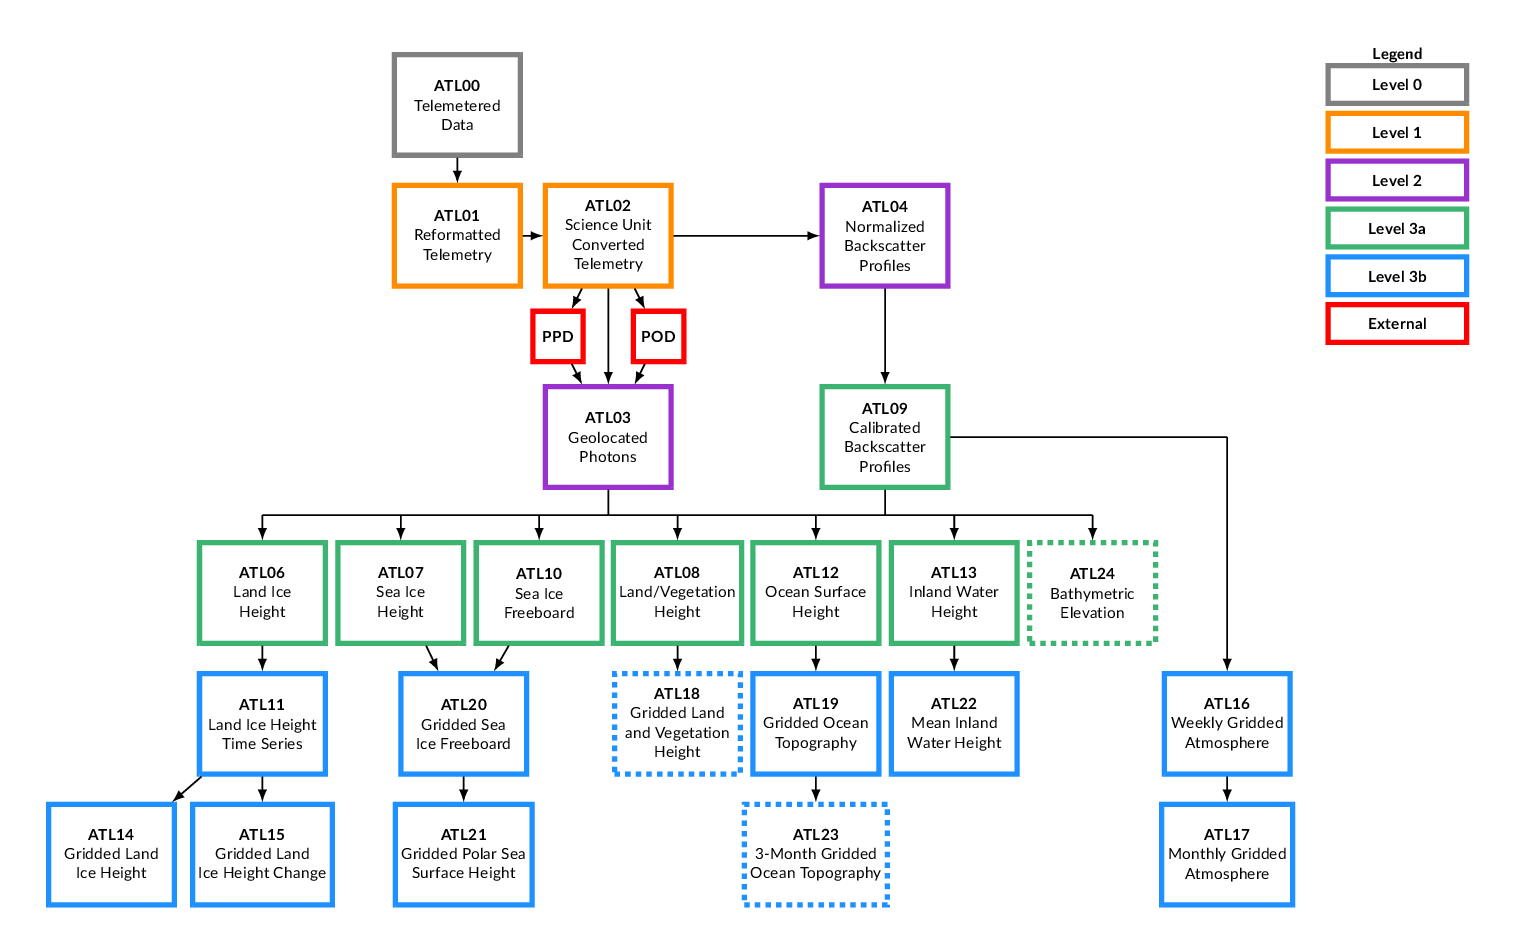
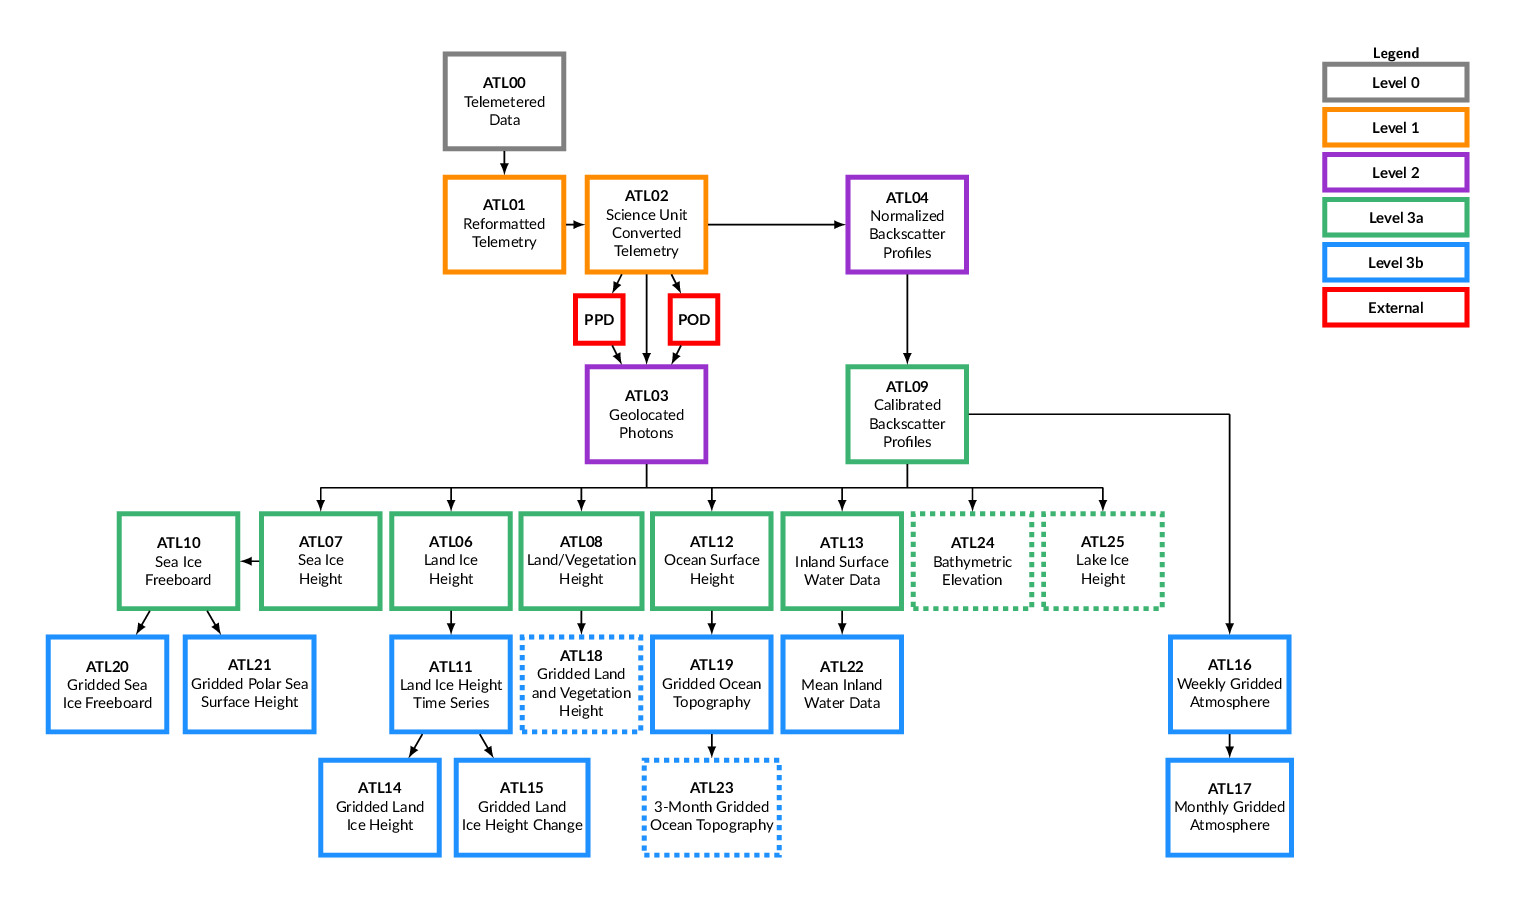
docs: update product chart to add ATL25
fix: default import as class
refactor: import higher level for submodules
fix: numpy 2.0 deprecation updates

diff --git a/doc/source/_assets/ASAS_product_chart.tex b/doc/source/_assets/ASAS_product_chart.tex
@@ -63,42 +63,44 @@
 		\node (B)[shape=coordinate, left=1.375cm of A] {};
 		\node (C)[shape=coordinate, left=2.75cm of B] {};
 		\node (D)[shape=coordinate, left=2.75cm of C] {};
-		\node (E)[shape=coordinate, right=1.375cm of A] {};
-		\node (F)[shape=coordinate, right=2.75cm of E] {};
+		\node (E)[shape=coordinate, left=3.00cm of D] {};
+		\node (F)[shape=coordinate, right=1.375cm of A] {};
 		\node (G)[shape=coordinate, right=2.75cm of F] {};
 		\node (H)[shape=coordinate, right=2.75cm of G] {};
+		\node (I)[shape=coordinate, right=2.75cm of H] {};
 		% Level 3a products
-		\node (atl06)[l3a, below=0.5cm of D]{\textbf{ATL06}\\Land Ice\\Height};
-		\node (atl07)[l3a, below=0.5cm of C]{\textbf{ATL07}\\Sea Ice\\Height};
-		\node (atl10)[l3a, below=0.5cm of B]{\textbf{ATL10}\\Sea Ice\\Freeboard};
-		\node (atl08)[l3a, below=0.5cm of E]{\textbf{ATL08}\\Land/Vegetation\\Height};
+		\node (atl10)[l3a, below=0.5cm of E]{\textbf{ATL10}\\Sea Ice\\Freeboard};
+		\node (atl07)[l3a, below=0.5cm of D]{\textbf{ATL07}\\Sea Ice\\Height};
+		\node (atl06)[l3a, below=0.5cm of C]{\textbf{ATL06}\\Land Ice\\Height};
+		\node (atl08)[l3a, below=0.5cm of B]{\textbf{ATL08}\\Land/Vegetation\\Height};
 		\node (atl12)[l3a, below=0.5cm of F]{\textbf{ATL12}\\Ocean Surface\\Height};
-		\node (atl13)[l3a, below=0.5cm of G]{\textbf{ATL13}\\Inland Water\\Height};
+		\node (atl13)[l3a, below=0.5cm of G]{\textbf{ATL13}\\Inland Surface\\Water Data};
 		\node (atl24)[l3a, dashed, below=0.5cm of H]{\textbf{ATL24}\\Bathymetric\\Elevation};
+		\node (atl25)[l3a, dashed, below=0.5cm of I]{\textbf{ATL25}\\Lake Ice\\Height};
 		\node (atl09)[l3a, right of=atl03, xshift=3.5cm]{\textbf{ATL09}\\Calibrated\\Backscatter\\Profiles};
 		% connection coordinates for single arrow out of ATL09
-		\node (I)[shape=coordinate, below=0.5cm of atl09] {};
-		\node (J)[shape=coordinate, right=5.5cm of atl09] {};
+		\node (J)[shape=coordinate, below=0.5cm of atl09] {};
+		\node (K)[shape=coordinate, right=5.5cm of atl09] {};
 		% Level 3b products
 		\node (atl11)[l3b, below=0.5cm of atl06]{\textbf{ATL11}\\Land Ice Height\\Time Series};
-		\node (atl14)[l3b, below=0.5cm of atl11, xshift=-3cm]{\textbf{ATL14}\\Gridded Land\\ Ice Height};
-		\node (atl15)[l3b, below=0.5cm of atl11, xshift=0cm]{\textbf{ATL15}\\Gridded Land\\ Ice Height Change};
+		\node (atl14)[l3b, below=0.5cm of atl11, xshift=-1.5cm]{\textbf{ATL14}\\Gridded Land\\ Ice Height};
+		\node (atl15)[l3b, below=0.5cm of atl11, xshift=1.5cm]{\textbf{ATL15}\\Gridded Land\\ Ice Height Change};
 		\node (atl20)[l3b, below=0.5cm of atl10, xshift=-1.5cm]{\textbf{ATL20}\\Gridded Sea\\ Ice Freeboard};
-		\node (atl21)[l3b, below=0.5cm of atl20, xshift=0cm]{\textbf{ATL21}\\Gridded Polar Sea\\ Surface Height};
+		\node (atl21)[l3b, below=0.5cm of atl10, xshift=1.5cm]{\textbf{ATL21}\\Gridded Polar Sea\\ Surface Height};
 		\node (atl18)[l3b, dashed, below=0.5cm of atl08, xshift=0cm]{\textbf{ATL18}\\Gridded Land\\ and Vegetation\\Height};
 		\node (atl19)[l3b, below=0.5cm of atl12]{\textbf{ATL19}\\Gridded Ocean\\Topography};
 		\node (atl23)[l3b, dashed, below=0.5cm of atl19]{\textbf{ATL23}\\3-Month Gridded\\Ocean Topography};
-		\node (atl22)[l3b, below=0.5cm of atl13]{\textbf{ATL22}\\Mean Inland\\Water Height};
-		\node (atl16)[l3b, below=4.65cm of J]{\textbf{ATL16}\\Weekly Gridded\\Atmosphere};
+		\node (atl22)[l3b, below=0.5cm of atl13]{\textbf{ATL22}\\Mean Inland\\ Water Data};
+		\node (atl16)[l3b, below=4.65cm of K]{\textbf{ATL16}\\Weekly Gridded\\Atmosphere};
 		\node (atl17)[l3b, below=0.5cm of atl16]{\textbf{ATL17}\\Monthly Gridded\\Atmosphere};
 		% Legend
-		\node (legend)[right=16cm of atl00, yshift=1cm, minimum height=0cm, minimum width=2.75cm]{\textbf{Legend}};
-		\node (level0)[l0, below=-0.1cm of legend, minimum height=0.75cm, minimum width=2.75cm]{\textbf{Level 0}};
-		\node (level1)[l1, below=0.1cm of level0, minimum height=0.75cm, minimum width=2.75cm]{\textbf{Level 1}};
-		\node (level2)[l2, below=0.1cm of level1, minimum height=0.75cm, minimum width=2.75cm]{\textbf{Level 2}};
-		\node (level3a)[l3a, below=0.1cm of level2, minimum height=0.75cm, minimum width=2.75cm]{\textbf{Level 3a}};
-		\node (level3b)[l3b, below=0.1cm of level3a, minimum height=0.75cm, minimum width=2.75cm]{\textbf{Level 3b}};
-		\node (extern)[ext, below=0.1cm of level3b, minimum height=0.75cm, minimum width=2.75cm]{\textbf{External}};
+		\node (legend)[right=16cm of atl00, yshift=1cm, minimum height=0cm, minimum width=3cm]{\textbf{Legend}};
+		\node (level0)[l0, below=-0.1cm of legend, minimum height=0.75cm, minimum width=3cm]{\textbf{Level 0}};
+		\node (level1)[l1, below=0.1cm of level0, minimum height=0.75cm, minimum width=3cm]{\textbf{Level 1}};
+		\node (level2)[l2, below=0.1cm of level1, minimum height=0.75cm, minimum width=3cm]{\textbf{Level 2}};
+		\node (level3a)[l3a, below=0.1cm of level2, minimum height=0.75cm, minimum width=3cm]{\textbf{Level 3a}};
+		\node (level3b)[l3b, below=0.1cm of level3a, minimum height=0.75cm, minimum width=3cm]{\textbf{Level 3b}};
+		\node (extern)[ext, below=0.1cm of level3b, minimum height=0.75cm, minimum width=3cm]{\textbf{External}};
 		% draw arrows between nodes
 		\draw[line width=0.3mm,-Latex](atl00) -- (atl01);
 		\draw[line width=0.3mm,-Latex](atl01) -- (atl02);
@@ -110,24 +112,25 @@
 		\draw[line width=0.3mm,-Latex](atl02) -- (atl04);
 		\draw[line width=0.3mm,-Latex](atl04) -- (atl09);
 		\draw[line width=0.3mm,-](atl03.south) -- (A.north);
-		\draw[line width=0.3mm,-](atl09.south) -- (I.north);
-		\draw[line width=0.3mm,-](atl09.east) -- (J.west);
+		\draw[line width=0.3mm,-](atl09.south) -- (J.north);
+		\draw[line width=0.3mm,-](atl09.east) -- (K.west);
 		\draw[line width=0.3mm,-](A.west) -- (D.east);
-		\draw[line width=0.3mm,-](A.east) -- (H.west);
-		\draw[line width=0.3mm,-Latex](D.south) -- (atl06.north);
-		\draw[line width=0.3mm,-Latex](C.south) -- (atl07.north);
-		\draw[line width=0.3mm,-Latex](B.south) -- (atl10.north);
-		\draw[line width=0.3mm,-Latex](E.south) -- (atl08.north);
+		\draw[line width=0.3mm,-](A.east) -- (I.west);
+%		\draw[line width=0.3mm,-Latex](E.south) -- (atl10.north);
+		\draw[line width=0.3mm,-Latex](D.south) -- (atl07.north);
+		\draw[line width=0.3mm,-Latex](C.south) -- (atl06.north);
+		\draw[line width=0.3mm,-Latex](B.south) -- (atl08.north);
 		\draw[line width=0.3mm,-Latex](F.south) -- (atl12.north);
 		\draw[line width=0.3mm,-Latex](G.south) -- (atl13.north);
 		\draw[line width=0.3mm,-Latex](H.south) -- (atl24.north);
-		\draw[line width=0.3mm,-Latex](J.south) -- (atl16.north);
+		\draw[line width=0.3mm,-Latex](I.south) -- (atl25.north);
+		\draw[line width=0.3mm,-Latex](K.south) -- (atl16.north);
 		\draw[line width=0.3mm,-Latex](atl06) -- (atl11);
 		\draw[line width=0.3mm,-Latex](atl11) -- (atl14);
 		\draw[line width=0.3mm,-Latex](atl11) -- (atl15);
-		\draw[line width=0.3mm,-Latex](atl07) -- (atl20);
+		\draw[line width=0.3mm,-Latex](atl07) -- (atl10);
 		\draw[line width=0.3mm,-Latex](atl10) -- (atl20);
-		\draw[line width=0.3mm,-Latex](atl20) -- (atl21);
+		\draw[line width=0.3mm,-Latex](atl10) -- (atl21);
 		\draw[line width=0.3mm,-Latex](atl08) -- (atl18);
 		\draw[line width=0.3mm,-Latex](atl12) -- (atl19);
 		\draw[line width=0.3mm,-Latex](atl19) -- (atl23);

diff --git a/icesat2_toolkit/spatial.py b/icesat2_toolkit/spatial.py
@@ -46,9 +46,10 @@ import numpy as np
 from icesat2_toolkit.utilities import import_dependency
 
 # attempt imports
-gdal = import_dependency('osgeo.gdal')
-osr = import_dependency('osgeo.osr')
-gdalconst = import_dependency('osgeo.gdalconst')
+osgeo = import_dependency('osgeo')
+osgeo.gdal = import_dependency('osgeo.gdal')
+osgeo.osr = import_dependency('osgeo.osr')
+osgeo.gdalconst = import_dependency('osgeo.gdalconst')
 h5py = import_dependency('h5py')
 netCDF4 = import_dependency('netCDF4')
 
@@ -189,7 +190,7 @@ def from_netCDF4(filename: str, **kwargs):
                 fileID.variables[grid_mapping].getncattr(att_name)
         # get the spatial projection reference information from wkt
         # and overwrite the file-level projection attribute (if existing)
-        srs = osr.SpatialReference()
+        srs = osgeo.osr.SpatialReference()
         srs.ImportFromWkt(dinput['attributes']['crs']['crs_wkt'])
         dinput['attributes']['projection'] = srs.ExportToProj4()
     # convert to masked array if fill values
@@ -294,7 +295,7 @@ def from_HDF5(filename: str | pathlib.Path, **kwargs):
             dinput['attributes']['crs'][att_name] = att_val
         # get the spatial projection reference information from wkt
         # and overwrite the file-level projection attribute (if existing)
-        srs = osr.SpatialReference()
+        srs = osgeo.osr.SpatialReference()
         srs.ImportFromWkt(dinput['attributes']['crs']['crs_wkt'])
         dinput['attributes']['projection'] = srs.ExportToProj4()
     # convert to masked array if fill values
@@ -327,16 +328,16 @@ def from_geotiff(filename: str, **kwargs):
     if (kwargs['compression'] == 'gzip'):
         # read as GDAL gzip virtual geotiff dataset
         mmap_name = f"/vsigzip/{str(case_insensitive_filename(filename))}"
-        ds = gdal.Open(mmap_name)
+        ds = osgeo.gdal.Open(mmap_name)
     elif (kwargs['compression'] == 'bytes'):
         # read as GDAL memory-mapped (diskless) geotiff dataset
         mmap_name = f"/vsimem/{uuid.uuid4().hex}"
-        gdal.FileFromMemBuffer(mmap_name, filename.read())
-        ds = gdal.Open(mmap_name)
+        osgeo.gdal.FileFromMemBuffer(mmap_name, filename.read())
+        ds = osgeo.gdal.Open(mmap_name)
     else:
         # read geotiff dataset
-        ds = gdal.Open(str(case_insensitive_filename(filename)),
-            gdalconst.GA_ReadOnly)
+        ds = osgeo.gdal.Open(str(case_insensitive_filename(filename)),
+            osgeo.gdalconst.GA_ReadOnly)
     # print geotiff file if verbose
     logging.info(str(filename))
     # create python dictionary for output variables and attributes

diff --git a/icesat2_toolkit/fit.py b/icesat2_toolkit/fit.py
@@ -30,7 +30,8 @@ import scipy.optimize
 from icesat2_toolkit.utilities import import_dependency
 
 # attempt imports
-neighbors = import_dependency('sklearn.neighbors')
+sklearn = import_dependency('sklearn')
+sklearn.neighbors = import_dependency('sklearn.neighbors')
 
 # PURPOSE: compress complete list of valid indices into a set of ranges
 def compress_list(i,n):
@@ -526,7 +527,7 @@ def reduce_histogram_fit(x, y, z, ind, dt, FIT_TYPE='gaussian',
     # using kernel density functions from scikit-learn neighbors
     # gaussian kernels will reflect more accurate distributions of the data
     # with less sensitivity to sampling width than histograms (tophat kernels)
-    kde = neighbors.KernelDensity(bandwidth=dz, kernel='gaussian')
+    kde = sklearn.neighbors.KernelDensity(bandwidth=dz, kernel='gaussian')
     kde.fit(z[:,None])
     # kde score_samples outputs are normalized log density functions
     hist = np.exp(kde.score_samples(z_full[:,None]) + np.log(n_max*dz))
@@ -654,7 +655,7 @@ def reduce_histogram_fit(x, y, z, ind, dt, FIT_TYPE='gaussian',
             # using kernel density functions from scikit-learn neighbors
             # gaussian kernels will reflect more accurate distributions of the data
             # with less sensitivity to sampling width than histograms (tophat kernels)
-            kde = neighbors.KernelDensity(bandwidth=dz,kernel='gaussian')
+            kde = sklearn.neighbors.KernelDensity(bandwidth=dz, kernel='gaussian')
             kde.fit(z_filt[:,None])
             # kde score_samples outputs are normalized log density functions
             hist = np.exp(kde.score_samples(z_full[:,None]) + np.log(nz*dz))
@@ -989,7 +990,7 @@ def calc_first_photon_bias(temporal_residuals,n_pulses,n_pixels,dead_time,dt,
     # using kernel density functions from scikit-learn neighbors
     # gaussian kernels will reflect more accurate distributions of the data
     # with less sensitivity to sampling width than histograms (tophat kernels)
-    kde = neighbors.KernelDensity(bandwidth=dt,kernel='gaussian')
+    kde = sklearn.neighbors.KernelDensity(bandwidth=dt, kernel='gaussian')
     kde.fit(temporal_residuals[:,None])
     # kde score_samples outputs are normalized log density functions
     hist = np.exp(kde.score_samples(t_full[:,None]) + np.log(cnt*dt))

diff --git a/scripts/MPI_ICESat2_ATL03_histogram.py b/scripts/MPI_ICESat2_ATL03_histogram.py
@@ -132,7 +132,8 @@ import timescale.time
 # attempt imports
 h5py = is2tk.utilities.import_dependency('h5py')
 MPI = is2tk.utilities.import_dependency('mpi4py.MPI')
-cluster = is2tk.utilities.import_dependency('sklearn.cluster')
+sklearn = is2tk.utilities.import_dependency('sklearn')
+sklearn.cluster = is2tk.utilities.import_dependency('sklearn.cluster')
 yapc = is2tk.utilities.import_dependency('yapc')
 
 # PURPOSE: keep track of MPI threads
@@ -655,7 +656,7 @@ def main():
                 # and that the spread of photons is greater than 20m
                 if (ice_sig_low_count > 10) & (along_X_spread > 20):
                     # use density-based spatial clustering in segment
-                    db = cluster.DBSCAN(eps=0.5).fit(
+                    db = sklearn.cluster.DBSCAN(eps=0.5).fit(
                         np.c_[distance_along_X, segment_heights],
                         sample_weight=photon_snr)
                     labels = db.labels_
@@ -864,7 +865,7 @@ def main():
                 # and that the spread of photons is greater than 40m
                 if (pe_sig_low_count > 10) & (along_X_spread > 40):
                     # use density-based spatial clustering in segment
-                    db = cluster.DBSCAN(eps=0.5).fit(
+                    db = sklearn.cluster.DBSCAN(eps=0.5).fit(
                         np.c_[distance_along_X, segment_heights],
                         sample_weight=photon_snr)
                     labels = db.labels_

diff --git a/scripts/MPI_ICESat2_ATL03.py b/scripts/MPI_ICESat2_ATL03.py
@@ -93,7 +93,8 @@ import timescale.time
 # attempt imports
 h5py = is2tk.utilities.import_dependency('h5py')
 MPI = is2tk.utilities.import_dependency('mpi4py.MPI')
-cluster = is2tk.utilities.import_dependency('sklearn.cluster')
+sklearn = is2tk.utilities.import_dependency('sklearn')
+sklearn.cluster = is2tk.utilities.import_dependency('sklearn.cluster')
 yapc = is2tk.utilities.import_dependency('yapc')
 
 # PURPOSE: keep track of MPI threads
@@ -578,7 +579,7 @@ def main():
                 # and that the spread of photons is greater than 20m
                 if (pe_sig_low_count > 10) & (along_X_spread > 20):
                     # use density-based spatial clustering in segment
-                    db = cluster.DBSCAN(eps=0.5).fit(
+                    db = sklearn.cluster.DBSCAN(eps=0.5).fit(
                         np.c_[distance_along_X, segment_heights],
                         sample_weight=photon_snr)
                     labels = db.labels_
@@ -772,7 +773,7 @@ def main():
                 # and that the spread of photons is greater than 40m
                 if (pe_sig_low_count > 10) & (along_X_spread > 40):
                     # use density-based spatial clustering in segment
-                    db = cluster.DBSCAN(eps=0.5).fit(
+                    db = sklearn.cluster.DBSCAN(eps=0.5).fit(
                         np.c_[distance_along_X, segment_heights],
                         sample_weight=photon_snr)
                     labels = db.labels_

diff --git a/icesat2_toolkit/utilities.py b/icesat2_toolkit/utilities.py
@@ -132,9 +132,10 @@ def import_dependency(
     # check if the module name is a string
     msg = f"Invalid module name: '{name}'; must be a string"
     assert isinstance(name, str), msg
-    # try to import the module
+    # default error if module cannot be imported
     err = f"Missing optional dependency '{name}'. {extra}"
-    module = None
+    module = type('module', (), {})
+    # try to import the module
     try:
         module = importlib.import_module(name)
     except (ImportError, ModuleNotFoundError) as exc:

diff --git a/icesat2_toolkit/convert.py b/icesat2_toolkit/convert.py
@@ -570,7 +570,7 @@ class convert():
         if isinstance(attr, (np.int_, np.intc, np.intp, np.int8, np.int16, np.int32,
             np.int64, np.uint8, np.uint16, np.uint32, np.uint64)):
             return int(attr)
-        elif isinstance(attr, (np.float_, np.float16, np.float32, np.float64)):
+        elif isinstance(attr, (np.float16, np.float32, np.float64)):
             return float(attr)
         elif isinstance(attr, (np.ndarray)):
             if not isinstance(attr[0], (object)):
